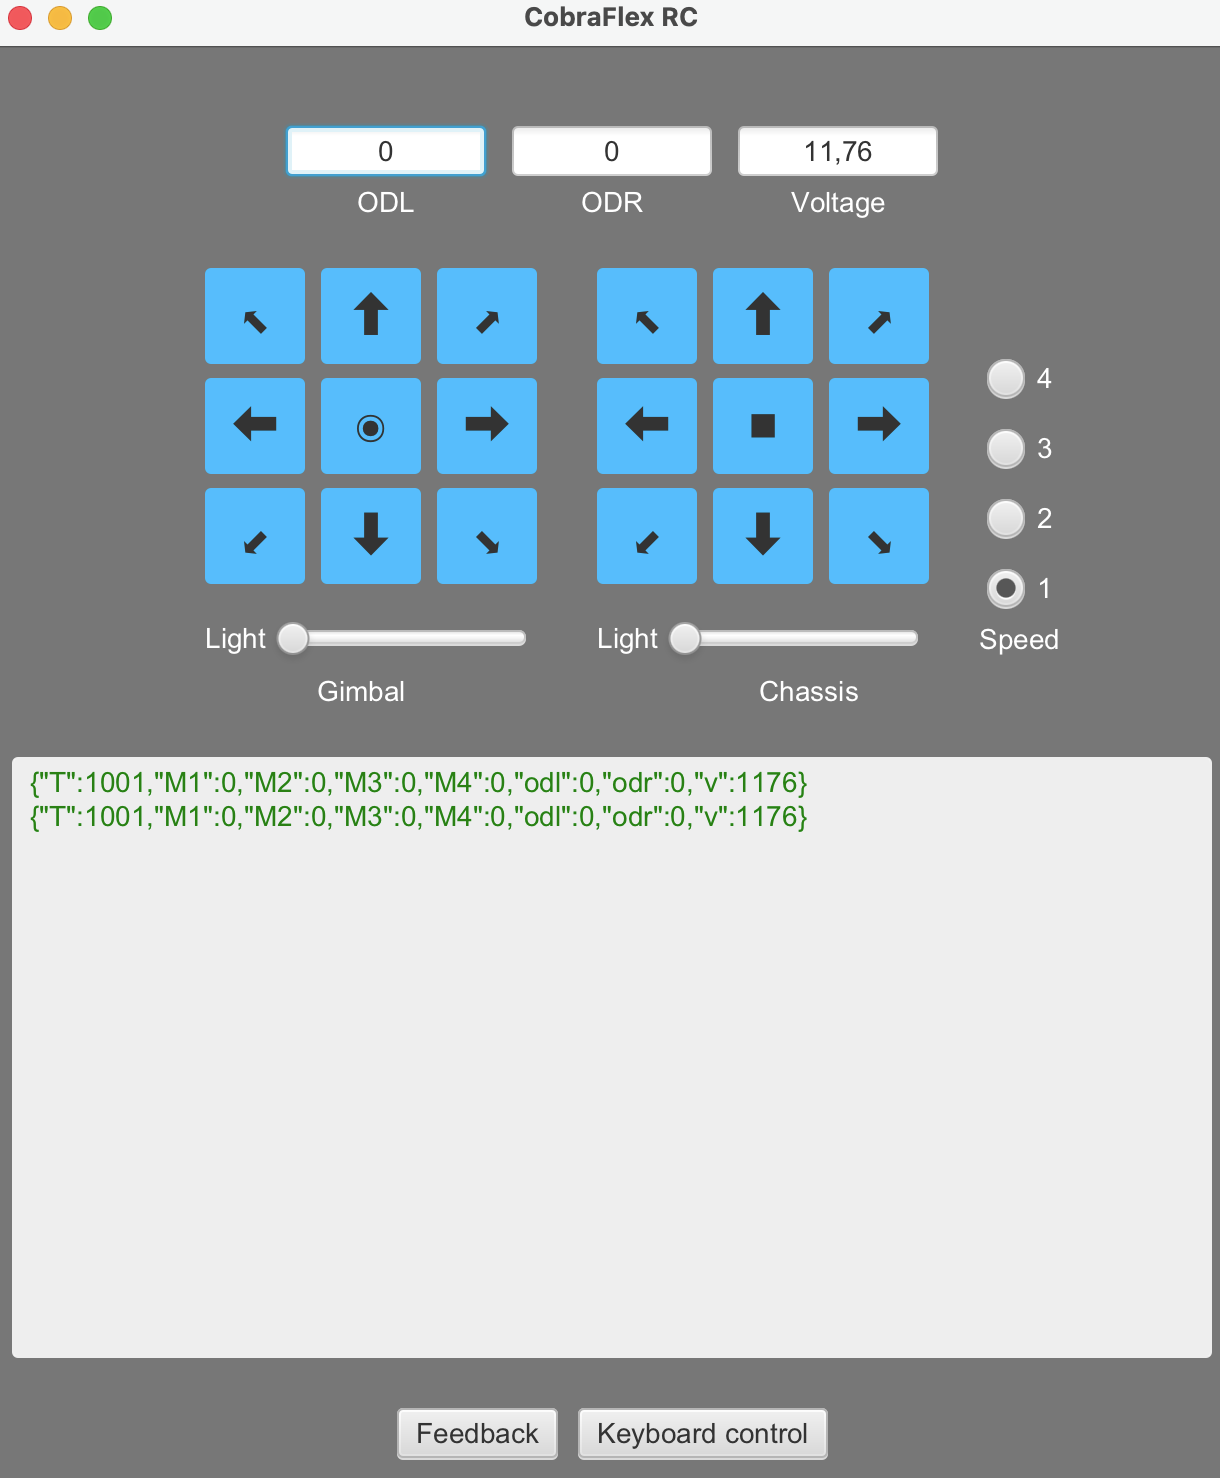
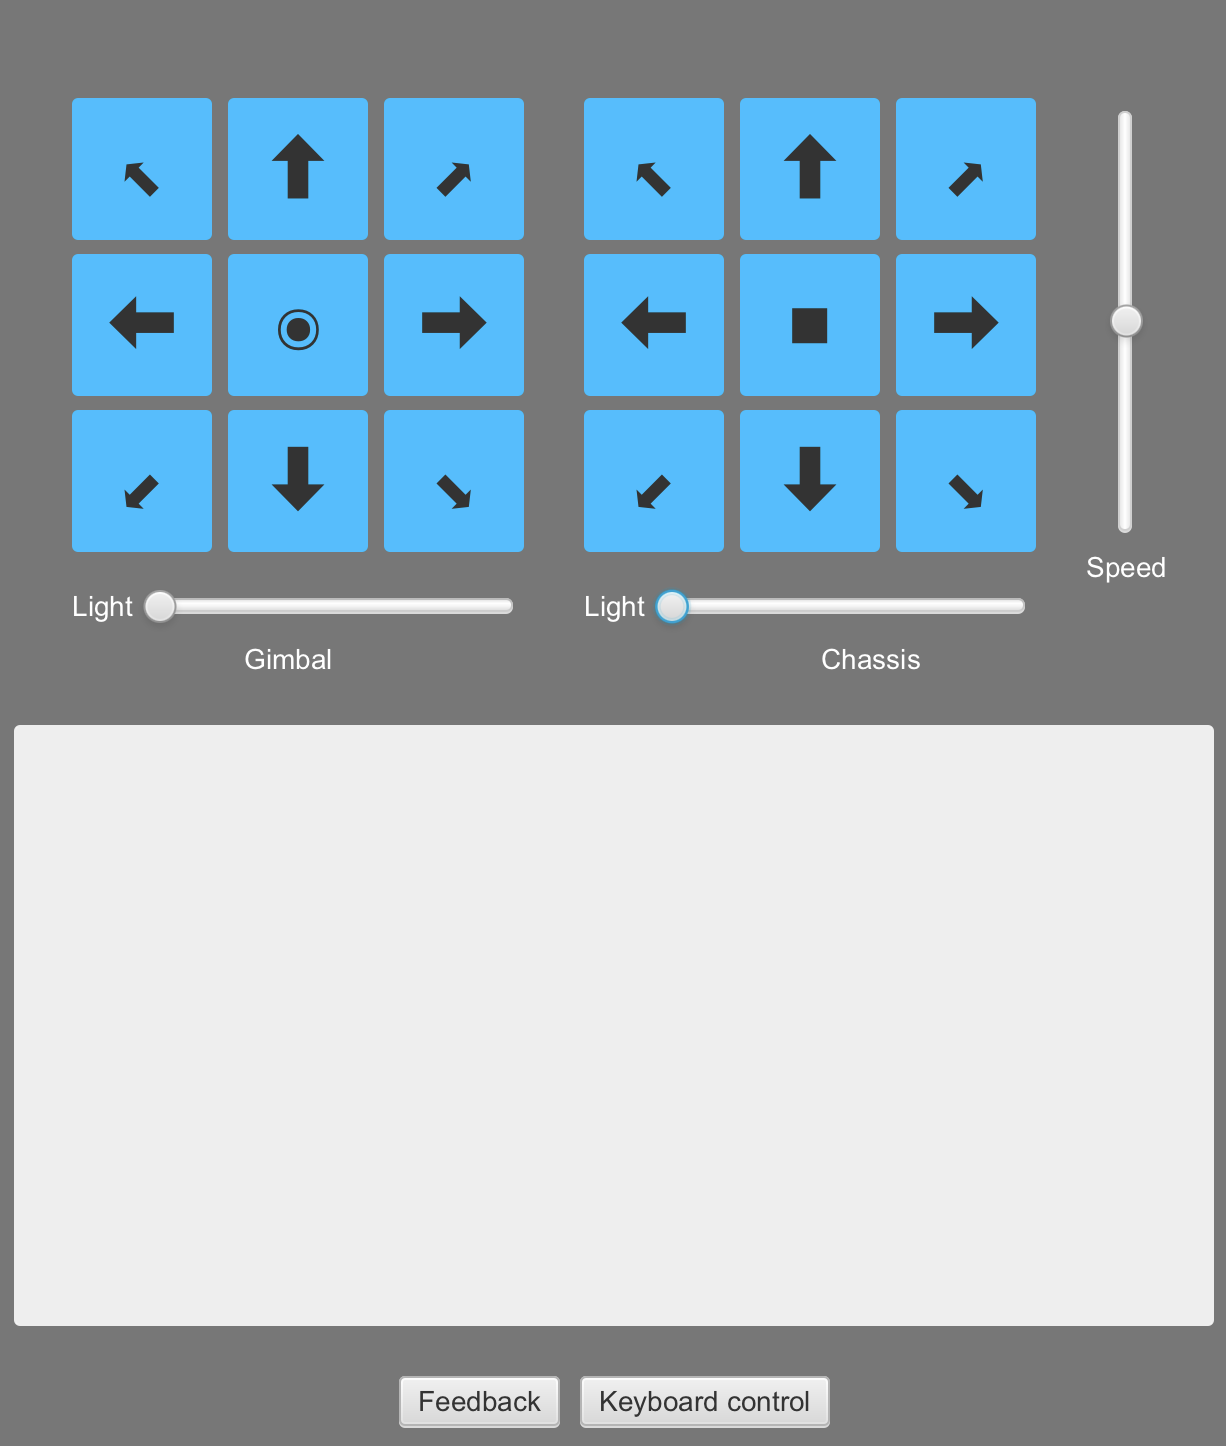
Gimbal light control

diff --git a/src/main/java/org/example/cobraflex/UiController.java b/src/main/java/org/example/cobraflex/UiController.java
@@ -22,7 +22,9 @@ public class UiController {
   private static final String CMD_PATH = "/cobraflex/cmd";
 
   @FXML
-  public Slider front_light;
+  public Slider chassis_light;
+  @FXML
+  public Slider gimbal_light;
   @FXML
   public Slider chassis_speed;
   @FXML
@@ -44,10 +46,14 @@ public class UiController {
     this.cobraflex = new CobraFlexClient();
     this.jetson = new JetsonOrinNanoClient();
     keyboardController = new KeyboardController(jetson, cobraflex);
-    ctrl_cobraflex_led(0);
-    front_light.valueProperty().addListener(
+    ctrl_chassis_led(0);
+    ctrl_gimbal_led(0);
+    chassis_light.valueProperty().addListener(
         (_, _, newValue) ->
-            ctrl_cobraflex_led(newValue.intValue()));
+            ctrl_chassis_led(newValue.intValue()));
+    gimbal_light.valueProperty().addListener(
+        (_, _, newValue) ->
+            ctrl_gimbal_led(newValue.intValue()));
     chassis_speed.valueProperty().addListener(
         (_, _, newValue) ->
             cobraflex.setSpeedLevel(newValue.intValue()));
@@ -89,7 +95,7 @@ public class UiController {
   @FXML
   public void gmm_pressed() {
     String cmd = cobraflex.cmd_gimbal_ctrl_simple(0, 0);
-    jetson.post(CMD_PATH, cmd);
+    jetson.post("/gimbal/cmd/middle_position", cmd);
   }
 
   // gimbal middle right button
@@ -273,14 +279,20 @@ public class UiController {
     getFeedback();
   }
 
-  private void ctrl_cobraflex_led(int brightness) {
-    String cmd = cobraflex.ctrl_cobraflex_led(brightness);
+  private void ctrl_chassis_led(int brightness) {
+    String cmd = cobraflex.ctrl_chassis_led(brightness);
+    jetson.post(CMD_PATH, cmd);
+  }
+
+  private void ctrl_gimbal_led(int brightness) {
+    String cmd = cobraflex.ctrl_gimbal_led(brightness);
     jetson.post(CMD_PATH, cmd);
   }
 
   private void exitApplication() {
     chassis_released();
     gimbal_released();
-    ctrl_cobraflex_led(0);
+    ctrl_chassis_led(0);
+    ctrl_gimbal_led(0);
   }
 }

diff --git a/src/main/java/org/example/cobraflex/clients/CobraFlexClient.java b/src/main/java/org/example/cobraflex/clients/CobraFlexClient.java
@@ -22,6 +22,9 @@ public class CobraFlexClient {
   @Getter
   private int actTilt;
 
+  private int actualChassisLight = 0;
+  private int actualGimbalLight = 0;
+
 
   public CobraFlexClient() {
     this.speedLevel = getDEFAULT_SPEED();
@@ -171,10 +174,32 @@ public class CobraFlexClient {
   /*
    *  CMD_LED_CTRL
    *  IO1: chassis front led left and right
-   *  IO2: no function (difference to wiki description)
-   *  IO5 controls pan-tilt LED
    */
-  public String ctrl_cobraflex_led(int brightness) {
-    return "{\"T\":132, \"IO1\":" + brightness + ",\"IO2\": 0}";
+  public String ctrl_chassis_led(int brightness) {
+    if (brightness < 0) {
+      brightness = 0;
+    } else if (brightness > 255) {
+      brightness = 255;
+    }
+    if (brightness != actualChassisLight) {
+      actualChassisLight = brightness;
+    }
+    return "{\"T\":132, \"IO1\":" + actualChassisLight + ",\"IO2\": " + actualGimbalLight + "}";
+  }
+
+  /*
+   *  CMD_LED_CTRL
+   *  IO2: gimbal led
+   */
+  public String ctrl_gimbal_led(int brightness) {
+    if (brightness < 0) {
+      brightness = 0;
+    } else if (brightness > 255) {
+      brightness = 255;
+    }
+    if (brightness != actualGimbalLight) {
+      actualGimbalLight = brightness;
+    }
+    return "{\"T\":132, \"IO1\":" + actualChassisLight + ",\"IO2\": " + actualGimbalLight + "}";
   }
 }
